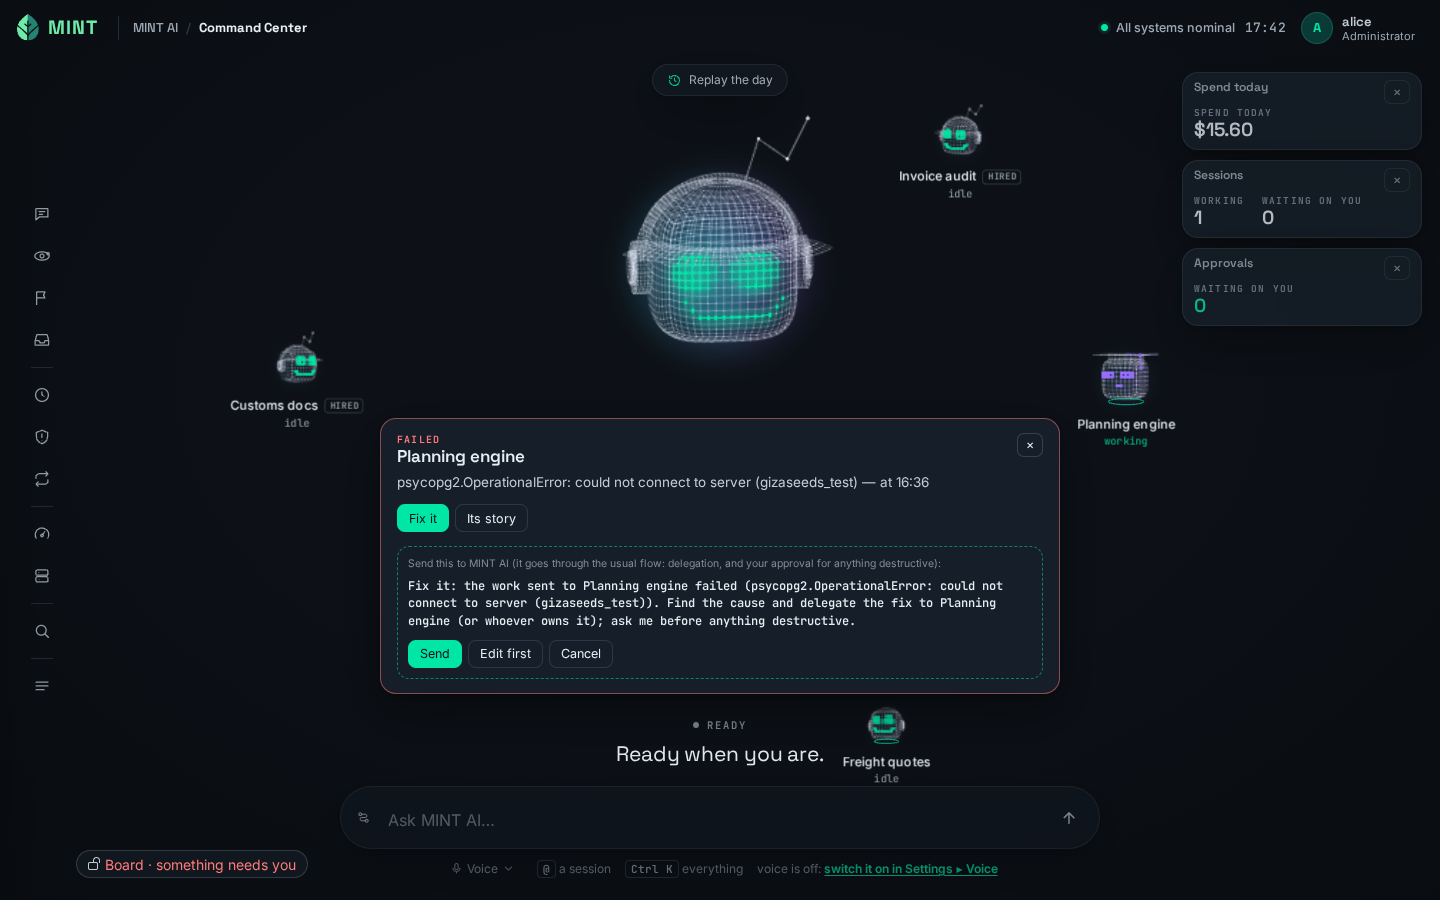
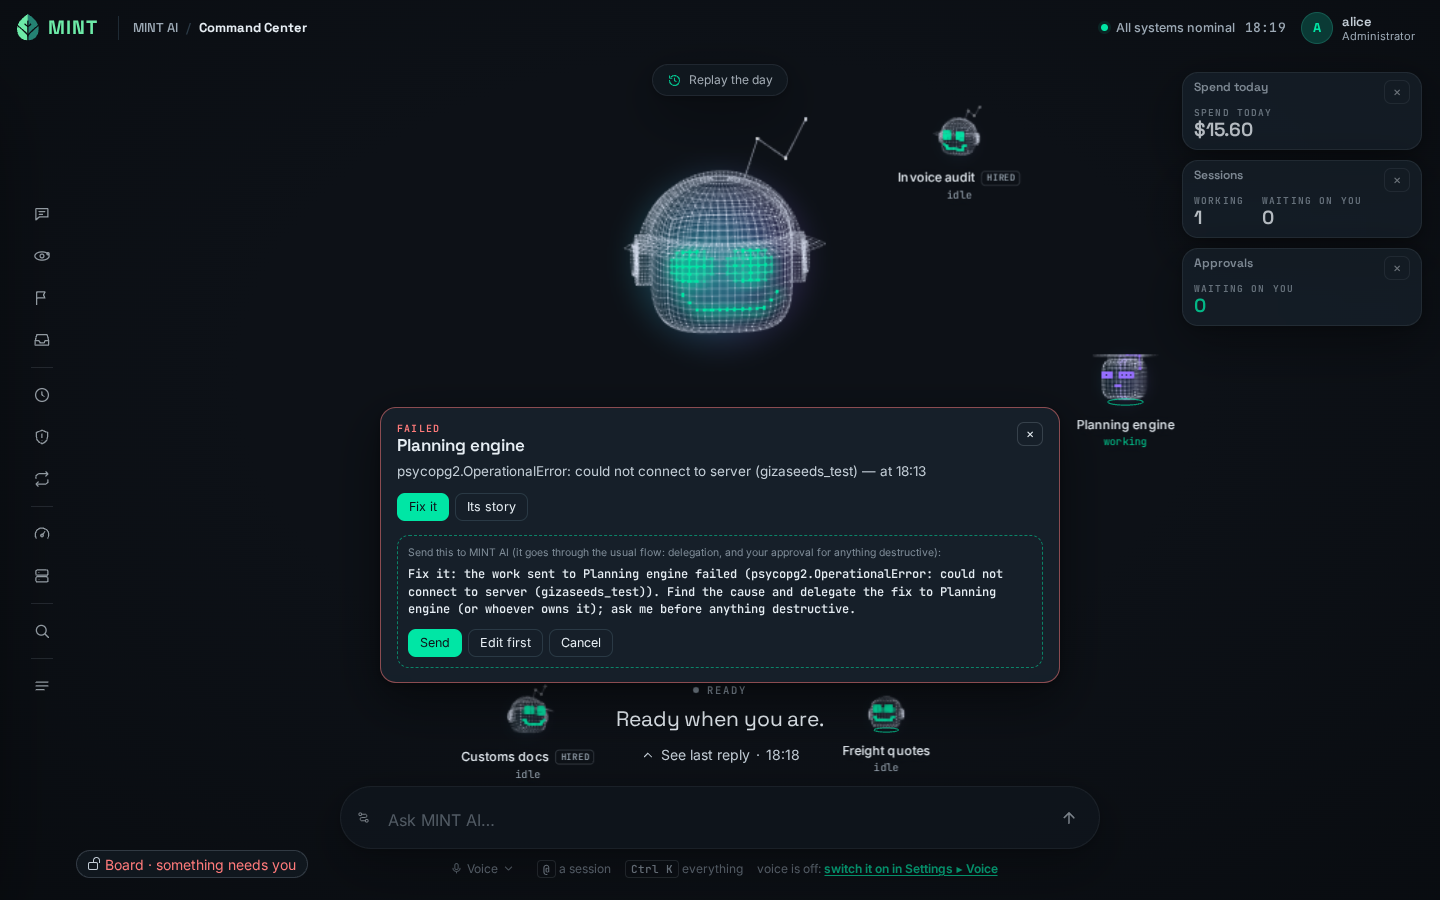
Living canvas: answer widgets stay in the conversation history
A widget the tab showed is kept with its reply in the supervisor's ledger
(turns.widgets, at most 3 per turn, each within the size limit; refused or
unanswered ones are not kept), sent to every viewer as a turn event (phase
widget) and returned with the turn on load, re-validated by turnWidgets and
again on the page. The Conversation draws them under their reply (live
sources refresh, Pin puts one on the board); old history shows kinds no
longer offered. Widget times use the Command Center's zone. Tests:
test-ui-widget (kept / not kept), test-living-canvas (reload, another
device, suppressed kind, bad stored widget dropped, pin from history);
docs and the conversation-history screenshot.

diff --git a/dashboard/public/mint-canvas.js b/dashboard/public/mint-canvas.js
@@ -86,7 +86,10 @@
     }
   }
   function dur(ms) { ms = Math.max(0, ms || 0); var m = Math.round(ms / 60e3); return m < 60 ? m + " min" : Math.floor(m / 60) + " h " + String(m % 60).padStart(2, "0"); }
-  function hm(t) { var d = new Date(t); if (isNaN(d)) return ""; return String(d.getHours()).padStart(2, "0") + ":" + String(d.getMinutes()).padStart(2, "0"); }
+  // Times as the Command Center shows them (moni-ai.js TZ: Cairo), so a widget's time matches its reply's.
+  var HM = null;
+  try { HM = new Intl.DateTimeFormat("en-GB", { hour: "2-digit", minute: "2-digit", hourCycle: "h23", timeZone: "Africa/Cairo" }); } catch (e) { HM = null; }
+  function hm(t) { var d = new Date(t); if (isNaN(d)) return ""; return HM ? HM.format(d) : String(d.getHours()).padStart(2, "0") + ":" + String(d.getMinutes()).padStart(2, "0"); }
   function clip(s, n) { s = String(s == null ? "" : s).replace(/\s+/g, " ").trim(); return s.length > n ? s.slice(0, n - 1) + "…" : s; }
 
   /* ---------------------------------------------------------------- sources */
@@ -400,22 +403,22 @@
     var w = el("section", "cv-w cv-k-" + spec.kind + (t.quiet ? " quiet" : "") + (t.type === "offered" ? " offered" : ""));
     w.setAttribute("data-cv", t.id);
     w.setAttribute("data-size", t.size);
-    w.setAttribute("data-cc-obstacle", "");
+    if (t.type !== "history") w.setAttribute("data-cc-obstacle", ""); // in the conversation sheet it is no obstacle
     w.setAttribute("aria-label", spec.title);
     if (spec.blocks[0] && spec.blocks[0].type === "approval") w.classList.add("cv-ap-w");
     var hd = el("header", "cv-h");
     var tt = el("div", "cv-t");
     tt.appendChild(el("b", null, spec.title));
-    var meta = t.type === "offered" ? "From MINT AI's answer · " + hm(t.at) : t.type === "standing" ? (t.learned ? "You keep this one" : "") : "";
+    var meta = t.type === "offered" ? "From MINT AI's answer · " + hm(t.at) : t.type === "history" ? "Shown with this reply" + (t.at ? " · " + hm(t.at) : "") : t.type === "standing" ? (t.learned ? "You keep this one" : "") : "";
     if (spec.source) meta = (meta ? meta + " · " : "") + "live";
     if (meta) tt.appendChild(el("small", spec.source ? "live" : null, meta));
     hd.appendChild(tt);
     var acts = el("div", "cv-acts");
     var btn = function (act, label, txt) { var b = el("button", "cv-ib", txt); b.type = "button"; b.setAttribute("data-cv-act", act); b.setAttribute("aria-label", label); b.title = label; acts.appendChild(b); return b; };
-    if (t.type === "offered") btn("pin", "Pin to the board", "Pin");
+    if (t.type === "offered" || t.type === "history") btn("pin", "Pin to the board", "Pin");
     if (t.type === "pinned" || t.type === "offered") btn("size", "Size: " + t.size.toUpperCase() + " (change)", t.size.toUpperCase());
     if (t.type === "pinned") btn("unpin", "Unpin", "Unpin");
-    btn("x", t.type === "pinned" ? "Unpin and dismiss" : "Dismiss", "×");
+    if (t.type !== "history") btn("x", t.type === "pinned" ? "Unpin and dismiss" : "Dismiss", "×");
     hd.appendChild(acts);
     w.appendChild(hd);
     var bd = el("div", "cv-bd");
@@ -546,6 +549,7 @@
     cc.setAttribute("data-cv-mode", plan.mode);
     // The page state a widget shows changes every tick: redraw when the plan or the data moved.
     var dataSig = dataSignature(plan);
+    paintHistory(false);
     var sig = JSON.stringify(plan) + "|" + dataSig + "|" + (C.fix ? C.fix.id : "") + "|" + window.innerWidth + "x" + window.innerHeight;
     if (!force && sig === C.sig) { placeDesk(); return; }
     force = false;
@@ -592,9 +596,12 @@
     return w;
   }
   function dataSignature(plan) {
+    return specsSignature(plan.tiles.map(function (t) { return specFor(t); }));
+  }
+  /** What the given widgets show, as a string: it changes when their sources' data does. */
+  function specsSignature(list) {
     var c = mcc(), S = (c && c.S) || {}, parts = [];
-    plan.tiles.forEach(function (t) {
-      var s = specFor(t);
+    list.forEach(function (s) {
       if (!s || !s.spec) return;
       var src = s.spec.source;
       if (src && FETCHED[src.name]) { var e = C.data[srcKey(src)]; parts.push(e ? e.at + (e.err || "") : "-"); }
@@ -801,6 +808,61 @@
     return { ok: true };
   }
 
+  /* ---------------------------------------------------------------- the conversation's widgets (history)
+     A widget MINT AI showed is kept with its reply in the supervisor's ledger (the conversation's own store)
+     and comes back with the turn: after a reload, in another tab, on another device. moni-ai.js hands each
+     painted turn here; every widget is checked again before it is drawn, live sources refresh as usual, and
+     it is shown whatever the learning says (it was offered then). Pin puts it on the board. */
+  var hist = []; // { box, turn, items: [{ id, at, spec, key }], sig }
+  function history(turnEl, tr) {
+    var items = [];
+    (tr.widgets || []).slice(0, 3).forEach(function (w) {
+      var v = w && MW.validate(w.widget);
+      if (v && v.ok) items.push({ id: "h" + tr.id + ":" + String(w.id || "").slice(0, 24), at: Date.parse(w.at) || null, spec: v.value, key: v.key });
+    });
+    if (!items.length) return;
+    var host = turnEl.querySelector(".cc-msg.ai .cc-bubble") || turnEl;
+    var box = el("div", "cv-hist");
+    box.setAttribute("data-turn", String(tr.id));
+    host.appendChild(box);
+    hist = hist.filter(function (h) { return h.box.isConnected && h.turn !== tr.id; });
+    var h = { box: box, turn: tr.id, items: items, sig: "" };
+    hist.push(h);
+    drawHistory(h);
+  }
+  function drawHistory(h) {
+    h.sig = specsSignature(h.items);
+    while (h.box.firstChild) h.box.removeChild(h.box.firstChild);
+    h.items.forEach(function (it) {
+      var t = { id: it.id, type: "history", key: it.key, size: "m", at: it.at };
+      h.box.appendChild(card(t, it.spec));
+    });
+  }
+  function paintHistory(all) {
+    hist = hist.filter(function (h) { return h.box.isConnected; });
+    hist.forEach(function (h) { if (all || specsSignature(h.items) !== h.sig) drawHistory(h); });
+  }
+  function onHistClick(e) {
+    var b = e.target.closest ? e.target.closest("[data-cv-act]") : null;
+    if (!b || !b.closest(".cv-hist")) return;
+    var w = b.closest(".cv-w"), id = w && w.getAttribute("data-cv");
+    var it = null;
+    hist.forEach(function (h) { h.items.forEach(function (x) { if (x.id === id) it = x; }); });
+    if (!it) return;
+    e.preventDefault();
+    e.stopPropagation();
+    if (b.getAttribute("data-cv-act") === "pin") {
+      api("/mint-ai/api/canvas/pin", { widget: it.spec, size: it.spec.size }).then(function (j) {
+        C.pins.push(j.pin);
+        takeLearned(j);
+        b.textContent = "Pinned";
+        b.disabled = true;
+        schedule(true);
+      }, function (x) { toast("Not pinned: " + x.message); });
+    }
+  }
+  document.addEventListener("click", onHistClick, true);
+
   board.addEventListener("click", onClick);
   centre.addEventListener("click", onClick);
   ctl.addEventListener("click", onClick);
@@ -821,7 +883,7 @@
   setInterval(function () { if (!document.hidden || DESK) render(); }, TICK_MS);
 
   window.MintCanvas = {
-    offer: offer, state: C, plan: function () { return C.plan; }, refresh: function () { schedule(true); }, reload: load,
+    offer: offer, history: history, state: C, plan: function () { return C.plan; }, refresh: function () { schedule(true); }, reload: load,
     pin: pin, dismiss: dismiss, size: size, lock: lock, QUIET: QUIET,
   };
 })();

diff --git a/moni-ai/supervisor.js b/moni-ai/supervisor.js
@@ -45,6 +45,7 @@ const { buildSnapshot } = require("./lib/snapshot");
 const turnQueue = require("./lib/turnqueue");
 const names = require("./lib/names");
 const UiActions = require("./lib/ui-actions");
+const MintWidgets = require("./lib/mint-widgets");
 const planUsageLib = require("./lib/usage");
 const settingsLib = require("./lib/settings");
 const machinesLib = require("./lib/machines");
@@ -271,6 +272,7 @@ const proc = {
 /* UI control (see uiAction below): in memory only, never in the ledger or the ring. */
 const UI_REFUSED_ACTORS = new Set(["moni-ai", "watcher", "supervisor", "flag-file", "scheduler", "order"]);
 const UI_ACK_MS = 5000;
+const UI_WIDGETS_PER_TURN = 3; // MINT AI's ui_widget: widgets a turn (shown, and kept with its reply)
 const uiTokens = new Map(); // turn id -> { ut, actor, source }
 // A voice-desk turn's speaker as the voiceprint judged it ("command" | "other"): taking over a computer by voice needs "command".
 const turnVp = new Map(); // turn id -> "command" | "other"
@@ -2329,9 +2331,29 @@ function machineTellPolicy(actor) {
 
 /* ------------------------------------------------------------ public views --- */
 
+/**
+ * A turn's widgets (the living canvas), as stored with its reply: each one checked again by the
+ * building blocks on the way out -- a stored widget that no longer passes is left out, never sent.
+ */
+function turnWidgets(row) {
+  if (!row || !row.widgets) return [];
+  let list;
+  try {
+    list = JSON.parse(row.widgets);
+  } catch (_) {
+    return [];
+  }
+  if (!Array.isArray(list)) return [];
+  const out = [];
+  for (const w of list.slice(0, UI_WIDGETS_PER_TURN)) {
+    const v = w && MintWidgets.validate(w.widget);
+    if (v && v.ok) out.push({ id: String(w.id || "").slice(0, 40), at: typeof w.at === "string" ? w.at.slice(0, 30) : null, key: v.key, widget: v.value });
+  }
+  return out;
+}
 function publicTurn(row) {
   if (!row) return null;
-  return { id: row.id, source: row.source, actor: row.actor, text: row.text, target: row.target, status: row.status, created_at: row.created_at, started_at: row.started_at, ended_at: row.ended_at, duration_ms: row.duration_ms, cost_usd: row.cost_usd, cost_delta_usd: row.cost_delta_usd == null ? null : row.cost_delta_usd, result_text: row.result_text, error: row.error, order_id: row.order_id || null, mission_id: row.mission_id || null, decision_id: row.decision_id || null };
+  return { widgets: turnWidgets(row), id: row.id, source: row.source, actor: row.actor, text: row.text, target: row.target, status: row.status, created_at: row.created_at, started_at: row.started_at, ended_at: row.ended_at, duration_ms: row.duration_ms, cost_usd: row.cost_usd, cost_delta_usd: row.cost_delta_usd == null ? null : row.cost_delta_usd, result_text: row.result_text, error: row.error, order_id: row.order_id || null, mission_id: row.mission_id || null, decision_id: row.decision_id || null };
 }
 function publicDelegation(d) {
   if (!d) return null;
@@ -2453,7 +2475,7 @@ async function handle(req, sock) {
         table: p.table,
         rows: ledger
           .list(p.table, p)
-          .map((r) => (p.table === "approvals" ? publicApproval(r) : p.table === "delegations" ? publicDelegation(r) : r))
+          .map((r) => (p.table === "approvals" ? publicApproval(r) : p.table === "delegations" ? publicDelegation(r) : p.table === "turns" ? { ...r, widgets: turnWidgets(r) } : r))
           .map(redactDeep),
       };
     case "events": {
@@ -2637,7 +2659,6 @@ async function uiAction(actor, p) {
  * checked by the protocol; never HTML, script, style or a URL). At most 3 a turn, and they count toward
  * the screen actions' per-minute limit. The page may refuse it (a kind they always dismiss): refused.
  */
-const UI_WIDGETS_PER_TURN = 3;
 const uiWidgetCount = new Map(); // turn id -> widgets sent
 async function uiWidget(actor, p) {
   if (actor !== "moni-ai") throw new Error("ui-widget is MINT AI's own tool (actor moni-ai)");
@@ -2664,6 +2685,21 @@ async function uiWidget(actor, p) {
   const a = await answer;
   if (!a) return { status: "no-screen", note: "No Command Center answered: the administrator's screen is not open. Answer in words." };
   if (!a.ok) return { status: "refused", why: a.why || "the screen refused it", note: "The widget was not shown. Answer in words; do not say it is on their screen." };
+  // Shown: kept with the reply in the ledger (the conversation's own store), so the conversation shows it
+  // again after a reload and in the administrator's other tabs and devices; told to them now.
+  try {
+    const row = ledger.get("turns", running.id);
+    if (row) {
+      const list = turnWidgets(row).map((x) => ({ id: x.id, at: x.at, widget: x.widget }));
+      if (list.length < UI_WIDGETS_PER_TURN) {
+        list.push({ id: nonce, at: new Date().toISOString(), widget: w });
+        ledger.update("turns", running.id, { widgets: JSON.stringify(list) });
+        emit("turn", { phase: "widget", turn: publicTurn(ledger.get("turns", running.id)) });
+      }
+    }
+  } catch (e) {
+    warn("widget not kept with its turn:", e.message);
+  }
   return { status: "ok", shown: w.title, note: "It is on their board beside your answer; they may pin, resize or dismiss it. Still say the answer in words." };
 }
 

diff --git a/moni-ai/lib/ledger.js b/moni-ai/lib/ledger.js
@@ -304,7 +304,9 @@ class Ledger {
   /** Columns added after the first release; ALTER is idempotent by probing. */
   migrate() {
     const add = {
-      turns: ["order_id INTEGER", "mission_id INTEGER", "decision_id INTEGER", "proc_start TEXT", "cost_delta_usd REAL", "sent_at TEXT", "tokens_cum TEXT", "tok_input INTEGER", "tok_output INTEGER", "tok_cache_read INTEGER", "tok_cache_write INTEGER"],
+      turns: ["order_id INTEGER", "mission_id INTEGER", "decision_id INTEGER", "proc_start TEXT", "cost_delta_usd REAL", "sent_at TEXT", "tokens_cum TEXT", "tok_input INTEGER", "tok_output INTEGER", "tok_cache_read INTEGER", "tok_cache_write INTEGER",
+        // The living canvas (2026-10-20): the widgets shown with the reply, a JSON list [{ id, at, widget }] (lib/mint-widgets.js).
+        "widgets TEXT"],
       delegations: ["mission_id INTEGER", "step_id INTEGER", "target_kind TEXT", "target_ref TEXT"],
       // verified / verified_with: how the administrator confirmed an approve in the panel (Windows Hello or the code, 2026-10-08).
       approvals: ["mission_id INTEGER", "step_id INTEGER", "decision_id INTEGER", "rule_id INTEGER", "origin TEXT", "origin_name TEXT", "verified TEXT", "verified_with TEXT"],

diff --git a/dashboard/public/mint-canvas.css b/dashboard/public/mint-canvas.css
@@ -148,6 +148,11 @@
 .cv-att { color: var(--warn); border-color: color-mix(in srgb, var(--warn) 50%, transparent); }
 .cc-shell[data-cv-mode="incident"] .cv-lock span { color: var(--bad); }
 
+/* ---- a widget kept with its reply, in the conversation ---- */
+.cv-hist { display: flex; flex-direction: column; gap: 8px; margin-top: 10px; }
+.cv-hist .cv-w { box-shadow: none; backdrop-filter: none; background: var(--cc-glass, transparent); }
+.cv-hist .cv-w[data-size="m"] .cv-bd { max-height: 320px; }
+
 /* ---- Settings ▸ Appearance ▸ Board ---- */
 .cv-learn { width: 100%; border-collapse: collapse; font-size: 13px; }
 .cv-learn th, .cv-learn td { text-align: left; padding: 5px 8px; border-bottom: 1px solid var(--line); }

diff --git a/dashboard/public/moni-ai.js b/dashboard/public/moni-ai.js
@@ -1414,6 +1414,8 @@
         (tr.duration_ms ? " · " + dur(tr.duration_ms) : "") + '</div><div class="cc-bubble' + (tr.status === "error" ? " err" : "") + '">' + body + "</div></div>";
     }
     el.innerHTML = h;
+    // The widgets MINT AI showed with this reply (kept with the turn; the living canvas draws them).
+    if (tr.widgets && tr.widgets.length && window.MintCanvas && window.MintCanvas.history) window.MintCanvas.history(el, tr);
   }
 
   /* Approvals whose turn is not on screen (older than what was loaded, or raised

diff --git a/docs/living-canvas.md b/docs/living-canvas.md
@@ -10,6 +10,7 @@ Screenshots and GIFs are in `mockups/living-canvas/`:
 - a widget answer being pinned: `widget-pinned.gif`, `answer-widget-dark` and `pinned-board-dark`;
 - Fix it: `failure-fixit.gif` and `failure-fixit-dark`;
 - the other block types: `widgets-gallery-dark`;
+- the conversation keeping them: `conversation-history-light`;
 - the lock: `locked-light`;
 - learning: `learned-standing-dark` and `settings-board-light`;
 - the phone: `phone-*`;
@@ -45,6 +46,23 @@ widget's header has three controls:
 - **Pin** keeps it on the board. The server stores it, so it survives a reload.
 - **S / M / L** cycles its size.
 - **×** dismisses it.
+
+**The conversation keeps them (user, 2026-10-20).** A widget the tab showed is stored with its reply,
+in the supervisor's ledger, which is where the conversation itself is kept:
+- `turns.widgets` is a JSON list of `{ id, at, widget }`, at most 3 per turn, each ≤ 12,000 bytes;
+- a widget that was refused or that no screen answered is not stored.
+
+The turn then goes out to every viewer as a `turn` event (phase `widget`), and it comes back with the
+turn on every load (`ledger turns`, `publicTurn`). Each widget is checked again on the way out by the
+supervisor's `turnWidgets` and once more on the page.
+
+The Conversation shows it under its reply, marked "Shown with this reply · time":
+- after a reload, and in other tabs and on other devices;
+- live sources refresh as usual;
+- **Pin** puts it on the board.
+
+Old history is history: a kind that has since stopped being offered is still shown there. The board
+offers nothing again after a reload; pinned widgets stay on it.
 
 The approval kind is the existing decision card, never a new approval path. The widget names only the
 approval's id, so its text comes from the real approval. It has three buttons:
@@ -208,10 +226,13 @@ Unpinning is tidying the board, so it is not counted as a dismissal.
   - Browser: the new assets plus `mint-desktop-glance.js` go before `ui-actions.js`. The list still keeps
     `"ui-actions.js", "moni-ai.js"` together and ends with `"moni-ai.js", "mint-dock.js", "mint-shell.js"`.
   - Desktop: the new assets go before `mint-desktop.js`.
-- `moni-ai.js`: the hand-off of `widget.show`.
+- `moni-ai.js`: the hand-off of `widget.show`, and `paintTurn` handing a turn's widgets to
+  `MintCanvas.history`.
 - `mint-desktop.js`: `HIT` and `GLASS`.
 - `moni-ai/lib/protocol.js`: the op.
-- `moni-ai/supervisor.js`: `uiWidget`, plus the audit summary of a widget.
+- `moni-ai/supervisor.js`: `uiWidget` (stores a shown widget with its turn), `turnWidgets` (re-validates
+  on the way out, in `publicTurn` and the `turns` ledger rows), plus the audit summary of a widget.
+- `moni-ai/lib/ledger.js`: the column `turns.widgets`, added by the existing migration.
 - `moni-ai/bin/moni-ai-mcp`: the two tools.
 - `moni-ai/home/CLAUDE.md`: the charter's widget rule.
 
